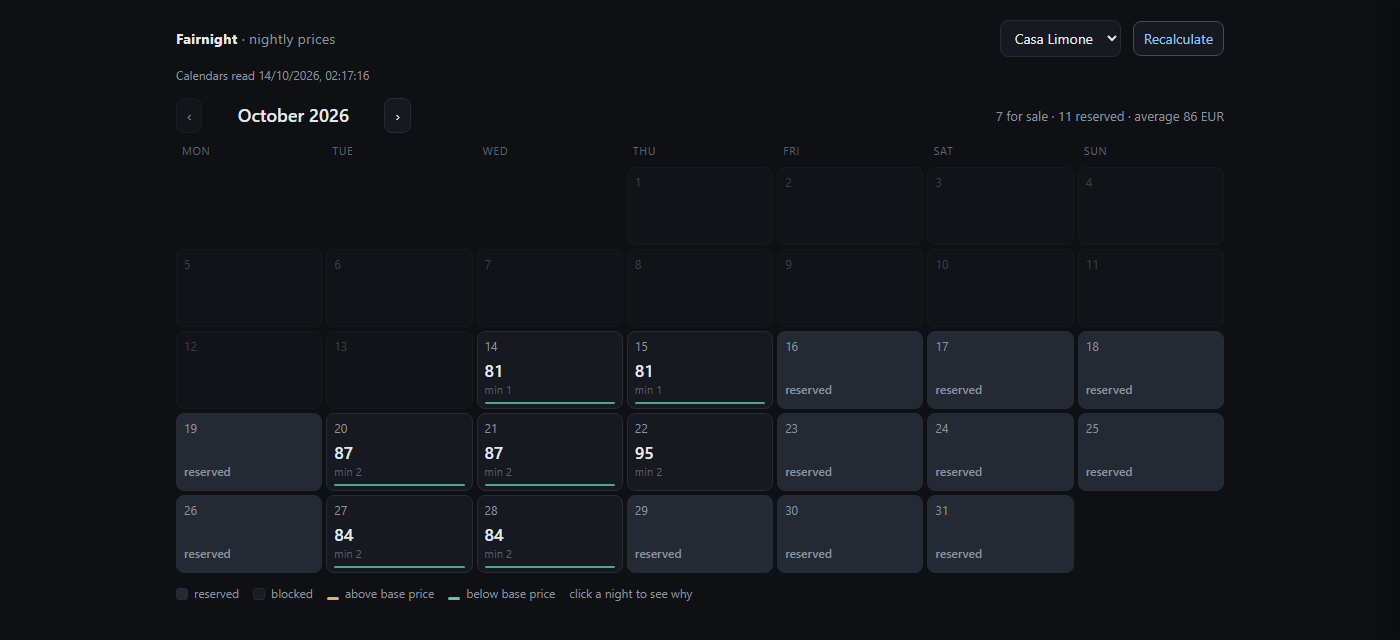
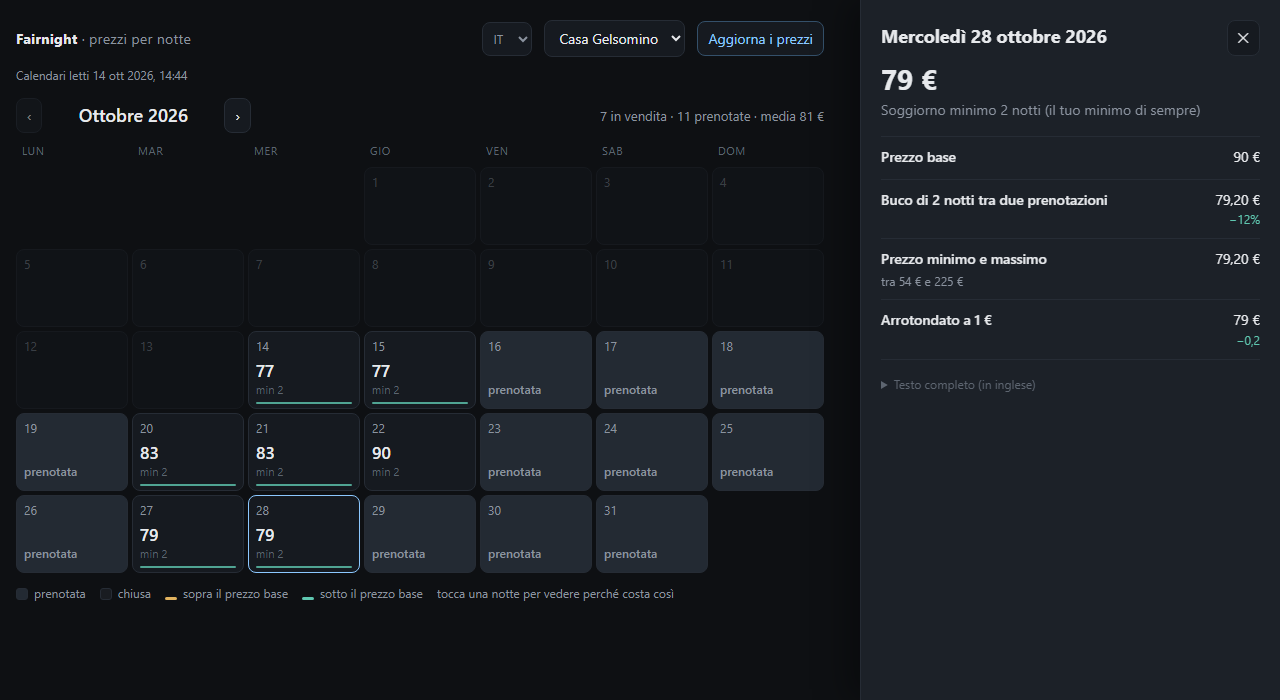
Docs: calendar page in three languages, screenshots in Italian and Spanish
Invented data. The guide shows the calendar in Italian and Spanish and the
new language question; piano.md lists the translation of fairnight serve's
terminal messages as future work.

diff --git a/docs/installa.md b/docs/installa.md
@@ -14,7 +14,7 @@ Questa guida è per chi affitta da 1 a 10 case su Airbnb, Booking o Vrbo e non h
 
 - **non cambia i prezzi su Airbnb, Booking o Vrbo.** Con i link iCal Fairnight può solo leggere le date occupate, non scrivere i prezzi. I prezzi li copi tu sulle piattaforme. Oppure, se usi Smoobu o Beds24, glieli manda Fairnight e loro li passano alle piattaforme: vedi [connettori.md](connettori.md);
 - non guarda i prezzi delle case vicine e non entra nei tuoi account: non gli dai nessuna password;
-- non lavora da solo in sottofondo: calcola quando apri il calendario o premi «Recalculate».
+- non lavora da solo in sottofondo: calcola quando apri il calendario o premi «Aggiorna i prezzi».
 
 **Dove stanno i tuoi dati:** solo sul tuo computer, nella cartella `Fairnight` del tuo utente: `C:\Users\<tuo nome>\Fairnight` su Windows, `/Users/<tuo nome>/Fairnight` su Mac. Fairnight si collega a internet solo per leggere i link iCal che gli dai. Non abbiamo un server e non riceviamo niente.
 
@@ -104,6 +104,7 @@ Il link iCal è privato: chi lo ha vede quando la casa è occupata. Non pubblica
 ![Prezzi e stagioni proposte](images/installa/06-prezzi-stagioni.png)
 
 7. **Un'altra casa?** Scrivi **s** per aggiungerla e rispondi alle stesse domande, oppure premi Invio per finire.
+8. **Lingua del calendario**: 1 Italiano, 2 Español, 3 English. Fairnight la propone in base alla città (Italia → italiano, Spagna e Canarie → spagnolo) o, se la città non basta, in base alla lingua del computer: premi Invio per tenerla. Se non c'è niente da proporre e premi Invio, il calendario resta in inglese. La domanda arriva una volta sola: dopo si cambia dal calendario stesso.
 
 Il resto delle regole ha valori di partenza prudenti, che puoi cambiare dopo:
 - fine settimana: venerdì +10%, sabato +15%, domenica -5%;
@@ -117,10 +118,13 @@ Fairnight legge i calendari e apre il calendario dei prezzi nel browser.
 
 ![Fairnight è acceso](images/installa/08-acceso.png)
 
-![Il calendario dei prezzi](images/installa/09-calendario.png)
+![Il calendario dei prezzi in italiano](images/installa/09-calendario.png)
 
-- Ogni giorno libero mostra il prezzo e il soggiorno minimo. Le notti già prenotate sono scure. Clicca una notte per vedere da dove viene il prezzo.
-- Per ora la pagina del calendario è in inglese: «reserved» vuol dire prenotata, «blocked» bloccata, «Recalculate» rilegge i calendari e ricalcola.
+- Ogni giorno libero mostra il prezzo e il soggiorno minimo. Le notti già prenotate sono scure. Clicca una notte per vedere da dove viene il prezzo: ogni regola è spiegata con le sue parole (buco tra due prenotazioni, ultimo minuto, stagione, prezzo minimo e massimo…).
+- «Aggiorna i prezzi» rilegge i calendari e ricalcola.
+- Il calendario parla italiano, spagnolo o inglese. Per cambiare lingua usa il piccolo menu **IT · ES · EN** in alto: la scelta resta in quel browser. In fondo al pannello di una notte, «Testo completo (in inglese)» apre la spiegazione originale di Fairnight: è quella da mandare se chiedi aiuto.
+
+![Lo stesso calendario in spagnolo](images/installa/09-calendario-es.png)
 - **La finestra nera deve restare aperta** mentre usi il calendario: quando la chiudi, Fairnight si spegne. Puoi ridurla a icona.
 
 **Le volte successive** non serve il terminale:

diff --git a/CHANGELOG.md b/CHANGELOG.md
@@ -58,6 +58,7 @@ Guest registration for Spain (Real Decreto 933/2021). Everything runs on the hos
   - New factor `scarcity` (few rooms left), off by default: steps by share of rooms taken, capped by `maxRaisePercent` (default 20). Only with more than one unit.
   - `NightQuote.units` and the explanation ("3 of 6 rooms free", "Weighed most: …") only for room types: with one unit every output is the same as before.
   - `Availability` is exported, so other tools count nights with the engine's own rule.
+- Every price step also carries its facts as data (`params`: season name, days ahead, gap nights, month occupancy, rooms free, floor and ceiling…), so a page can say them in another language. Labels, notes and explanations are unchanged.
 - Zone demand factor (`factors.market`), off unless switched on for a listing:
   - each night of the zone is compared with the zone's own average;
   - half of the difference is passed on, at most +15% or -10% (`weight`, `highPercent`, `lowPercent`, `maxRaisePercent`, `maxLowerPercent`, `withinDays`, `minComparables`);
@@ -126,6 +127,7 @@ Guest registration for Spain (Real Decreto 933/2021). Everything runs on the hos
 - Smoobu stay prices are stored (total, nights, average per night). The historical floor uses them only with `--usa-storico-smoobu`, because they are an average per stay, not per night.
 - Smoobu blocked dates are unavailable nights, never bookings: they do not count in occupancy or in the price history.
 - Database schema 2: `booked_at`, `smoobu_stays`, `smoobu_pushes`. Older databases are upgraded on first use.
+- The calendar page in Italian, Spanish and English: `language` in `fairnight.config.json` (English when missing), a small IT · ES · EN menu saved in the browser, dates, weekdays and prices formatted with `Intl`, the price rules said from the engine's `params`, the engine's English text folded at the bottom of the night panel. `fairnight configura` asks the language once, proposing it from the town (Italy → it, Spain and the Canary Islands → es) or from the computer's language.
 - Small hotels: `beds24 importa` imports rooms with `qty` > 1 as a room type (`units`) and warns when `qty` changes; a listing with `units` can list up to that many Smoobu apartments; an iCal calendar of a room type names its room (`unit`), and calendars of a whole room type are refused. `fairnight price` and the calendar page show the rooms free. Database schema 6: `unit` and `units` of each stored stay.
 
 ### fairnight-mcp

diff --git a/docs/piano.md b/docs/piano.md
@@ -84,6 +84,8 @@ Documenti in `docs/`, repo locale, licenza.
 
 **Stanze con più unità identiche: fatto (ramo `hotel`, 14 ottobre 2026).** Il motore conta le camere di ogni notte (`units` nell'annuncio), l'occupazione è in camere-notte, i buchi stanno fra notti tutto esaurito, e c'è il fattore «poche camere rimaste» (spento di default, tetto +20%). Beds24 importa le stanze con `qty` > 1, Smoobu unisce più appartamenti in una tipologia, l'iCal va per camera. Vedi [piccoli-hotel.md](piccoli-hotel.md). Resta fuori: i buchi di una sola camera (spostare gli ospiti fra le camere è il lavoro del gestionale).
 
+**Pagina del calendario in tre lingue: fatto (ramo `lingue`, 14 ottobre 2026).** Italiano, spagnolo e inglese, con `language` nel config e un selettore nella pagina; le regole sono dette dai `params` del motore. **Lavoro futuro: tradurre i messaggi del terminale di `fairnight serve`** (oggi in inglese; quelli di `apri` e `configura` sono già in italiano).
+
 ### Fase 3: mercato e analisi (circa 18 giorni, dopo le risposte scritte dei fornitori)
 
 | Pezzo | Giorni |
